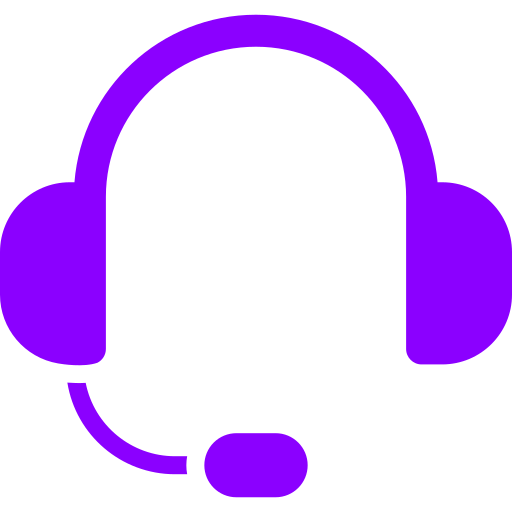
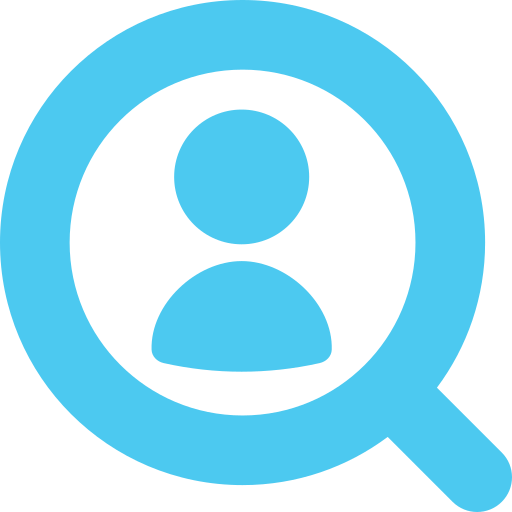
menu and contact improved!

diff --git a/styles/common.css b/styles/common.css
@@ -31,6 +31,31 @@ body::-webkit-scrollbar-track {
     background: transparent; /* Transparent track */
 }
 
+:root {
+    --ink:        #0b0f14;
+    --panel:      rgba(18, 26, 36, 0.55);
+    --panel-solid:#121a24;
+    --border:     rgba(140, 180, 210, 0.16);
+    --border-hi:  rgba(76, 201, 240, 0.45);
+
+    --cyan:       #4cc9f0;
+    --cyan-dim:   rgba(76, 201, 240, 0.14);
+    --blue:       #5b8def;
+    --amber:      #ffb020;
+    --green:      #33d17a;
+
+    --text:       #e8edf2;
+    --text-dim:   #93a3b5;
+    --text-faint: #5f7086;
+
+    --font-display: 'Krvx', 'Space Grotesk', sans-serif;
+    --font-body:    'Poppins', sans-serif;
+    --font-mono:    'JetBrains Mono', monospace;
+
+    --cut-sm: 14px;
+    --cut-lg: 26px;
+}
+
 /****************************** BACKGROUND ******************************/
 #background {
     position: relative;
@@ -152,7 +177,7 @@ body::-webkit-scrollbar-track {
 button {
     padding: 10px 20px;
     font-size: 1em;
-    background-color: #222222;
+    background-color: var(--cyan-dim);
     color: white;
     border: none;
     border-radius: 5px;
@@ -162,7 +187,7 @@ button {
 }
   
 button:hover {
-    background-color: #8B00FF;
+    background-color: var(--cyan-dim);
 }
 
 /****************************** TOOLBAR ******************************/
@@ -185,19 +210,19 @@ button:hover {
     height: 40px;
     border: none;
     border-radius: 50%;
-    background: radial-gradient(circle, #222222, #000000);
-    color: #8B00FF;
+    background: var(--cyan-dim);
+    color: var(--cyan);
     display: flex;
     justify-content: center;
     align-items: center;
-    box-shadow: 0 0 15px #8B00FF, 0 0 30px #4D008E;
+    box-shadow: 0 0 15px var(--cyan), 0 0 30px var(--blue);
     cursor: pointer;
     transition: transform 0.3s, box-shadow 0.3s;
 }
 
 .toolbar-toggle:hover {
     transform: scale(1.2);
-    box-shadow: 0 0 20px #C700FF, 0 0 40px #8B00FF;
+    box-shadow: 0 0 20px var(--cyan), 0 0 40px var(--blue);
 }
 
 /* Toolbar Items - Holographic Floating Panel */
@@ -208,15 +233,15 @@ button:hover {
     justify-content: center;
     position: fixed;
     top: 10px;
-    left: calc(40%);
+    left: calc(40.8%);
     width: 250px;
     height: 15px;
     transform: translateX(-50%);
-    background: black; /* linear-gradient(145deg, rgba(50, 50, 50, 0.8), rgba(10, 10, 10, 0.9));*/
+    background: var(--cyan-dim);
     border: 2px solid rgba(255, 255, 255, 0.1);
     border-radius: 15px;
     padding: 15px;
-    box-shadow: 0 10px 30px rgba(0, 0, 0, 0.5), 0 0 50px rgba(100, 0, 255, 0.5);
+    box-shadow: 0 10px 30px var(--cyan-dim), 0 0 50px var(--blue);
     animation: float 5s infinite ease-in-out;
 }
 
@@ -300,12 +325,12 @@ button:hover {
     height: 40px;
     border: none;
     border-radius: 50%;
-    background: radial-gradient(circle, #222222, #000000);
-    color: #8B00FF;
+    background: var(--cyan-dim);
+    color: var(--cyan);
     display: flex;
     justify-content: center;
     align-items: center;
-    box-shadow: 0 0 15px #8B00FF, 0 0 30px #4D008E;
+    box-shadow: 0 0 15px var(--cyan), 0 0 30px var(--blue);
     cursor: pointer;
     transition: transform 0.3s, box-shadow 0.3s;
 }
@@ -317,7 +342,7 @@ button:hover {
 
 .menu-button:hover {
     transform: scale(1.2);
-    box-shadow: 0 0 20px #C700FF, 0 0 40px #8B00FF;
+    box-shadow: 0 0 20px var(--cyan), 0 0 40px var(--blue);
 }
 
 .menu-button:active {
@@ -332,13 +357,13 @@ button:hover {
     justify-content: center;
     position: fixed;
     bottom: 5px;
-    left: calc(33%);
+    left: calc(36.2%);
     transform: translateX(-50%);
-    background: black; /*(145deg, rgb(50, 50, 50), rgba(10, 10, 10, 0.9));*/
+    background: var(--cyan-dim);
     border: 2px solid rgba(255, 255, 255, 0.1);
     border-radius: 15px;
     padding: 10px;
-    box-shadow: 0 10px 30px rgba(0, 0, 0, 0.5), 0 0 50px rgba(100, 0, 255, 0.5);
+    box-shadow: 0 10px 30px var(--cyan-dim), 0 0 50px var(--blue);
     animation: float 5s infinite ease-in-out;
     z-index: 10000;
 }

diff --git a/index.html b/index.html
@@ -139,7 +139,7 @@
             
             <div class="work-grid">
                 <a class="work-card reveal" href="html/works.html">
-                    <img class="work-media" src="images/work-indra.jpg" alt="Indra eVTOL flight-control work">
+                    <img class="work-media" src="images/VTOL.jpg" alt="Indra eVTOL flight-control work">
                     <div class="work-body">
                         <span class="work-dates">2022 — Present</span>
                         <h3>Indra Sistemas — eVTOL &amp; Fixed-Wing Flight Control</h3>
@@ -153,7 +153,7 @@
                 </a>
                 
                 <a class="work-card reveal" href="html/works.html">
-                    <img class="work-media" src="images/work-dronehopper.jpg" alt="Wild Hopper firefighting UAV">
+                    <img class="work-media" src="images/WH2.jpeg" alt="Wild Hopper firefighting UAV">
                     <div class="work-body">
                         <span class="work-dates">2020 — 2022</span>
                         <h3>Drone-Hopper — Wild Hopper Firefighting UAV</h3>
@@ -167,7 +167,7 @@
                 </a>
                 
                 <a class="work-card reveal" href="html/works.html">
-                    <img class="work-media" src="images/work-ahyres.jpg" alt="Ahyres inspection mission ground control software">
+                    <img class="work-media" src="images/Ahyres.png" alt="Ahyres inspection mission ground control software">
                     <div class="work-body">
                         <span class="work-dates">2023 — 2024</span>
                         <h3>Ahyres — Inspection Mission Ground Control</h3>
@@ -180,7 +180,7 @@
                 </a>
                 
                 <a class="work-card reveal" href="html/cv.html">
-                    <img class="work-media" src="images/work-phd.jpg" alt="Doctoral research on UAV thrust-vectoring control">
+                    <img class="work-media" src="images/CVAR.jpg" alt="Doctoral research on UAV thrust-vectoring control">
                     <div class="work-body">
                         <span class="work-dates">2019 — 2024</span>
                         <h3>Doctoral Research — CAR, UPM</h3>
@@ -204,7 +204,7 @@
             
             <div class="education-strip">
                 <div class="education-card highest-honors reveal">
-                    <img src="images/edu-upm.jpg" alt="Polytechnic University of Madrid">
+                    <img src="images/upm.png" alt="Polytechnic University of Madrid">
                     <span class="edu-dates">2019–2024</span>
                     <div class="edu-info">
                         <h4>PhD, Automation &amp; Robotics Engineering</h4>
@@ -213,7 +213,7 @@
                 </div>
                 
                 <div class="education-card reveal">
-                    <img src="images/edu-amirkabir.jpg" alt="Amir Kabir University of Technology">
+                    <img src="images/AmirKabir.png" alt="Amir Kabir University of Technology">
                     <span class="edu-dates">2016–2019</span>
                     <div class="edu-info">
                         <h4>MS, Aerospace Engineering</h4>
@@ -222,7 +222,7 @@
                 </div>
                 
                 <div class="education-card reveal">
-                    <img src="images/edu-khajehnasir.jpg" alt="Khajeh Nasir University of Technology">
+                    <img src="images/KhajeNasir.png" alt="Khajeh Nasir University of Technology">
                     <span class="edu-dates">2011–2015</span>
                     <div class="edu-info">
                         <h4>BS, Aerospace Engineering</h4>

diff --git a/styles/index.css b/styles/index.css
@@ -84,10 +84,7 @@ html, body {
 }
 
 /****************************** TOOLBAR ******************************/
-.toolbar {
-    top: -7px;
-    left: 0px;
-}
+/* Positioning now lives in common.css (shared spread/compact nav dock) */
 
 /****************************** HERO ******************************/
 #home {